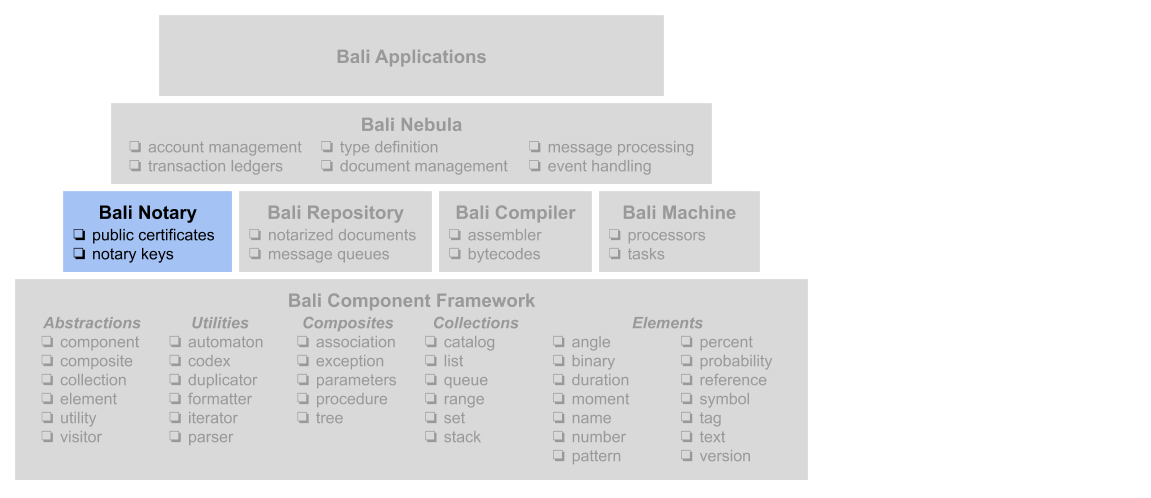
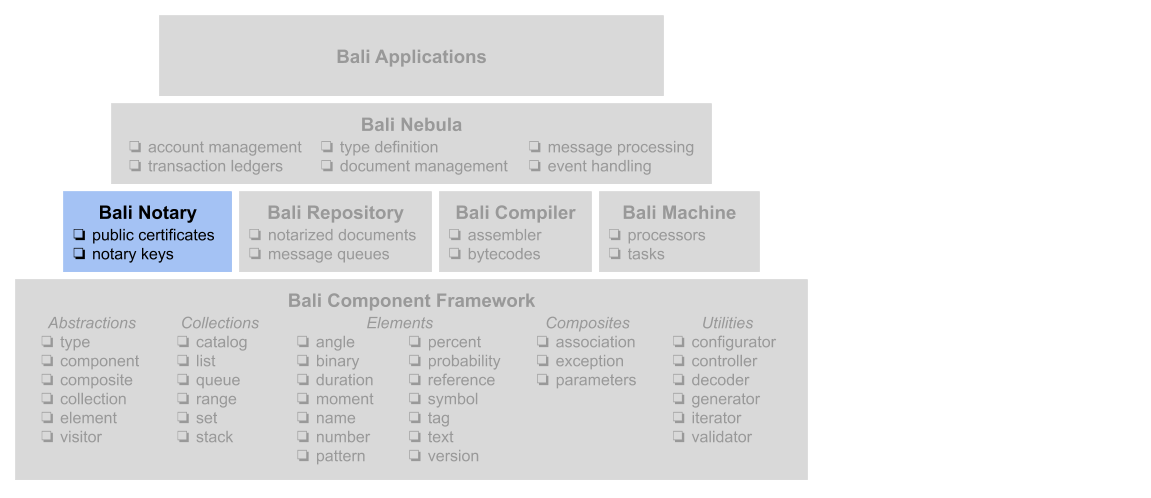
Renamed Codex -> Decoder, Machine -> Controller, and Savant -> Calculator.

Changed region(s): [[0.152, 0.6325, 0.4561, 0.9337], [0.4561, 0.6325, 0.669, 0.9337], [0.0304, 0.6325, 0.1216, 0.8434]]

diff --git a/src/DigitalNotary.js b/src/DigitalNotary.js
@@ -96,7 +96,7 @@ const DigitalNotary = function(securityModule, account, directory, debug) {
     // define the private configuration
     const filename = account.getValue() + '.bali';
     const configurator = bali.configurator(filename, directory, debug);
-    var configuration, machine;
+    var configuration, controller;
 
     /**
      * This method returns a string describing the attributes of the digital notary. It must
@@ -157,9 +157,9 @@ const DigitalNotary = function(securityModule, account, directory, debug) {
             // check current state
             if (!configuration) {
                 configuration = await loadConfiguration(configurator, debug);
-                machine = bali.machine(EVENTS, STATES, configuration.getValue('$state').toString(), debug);
+                controller = bali.controller(EVENTS, STATES, configuration.getValue('$state').toString(), debug);
             }
-            machine.validateEvent('$generateKey');
+            controller.validateEvent('$generateKey');
 
             // generate a new public-private key pair
             const publicKey = await securityModule.generateKeys();
@@ -180,7 +180,7 @@ const DigitalNotary = function(securityModule, account, directory, debug) {
             configuration.setValue('$certificate', certificate);
 
             // update current state
-            const state = machine.transitionState('$generateKey');
+            const state = controller.transitionState('$generateKey');
             configuration.setValue('$state', state);
             await storeConfiguration(configurator, configuration, debug);
 
@@ -220,9 +220,9 @@ const DigitalNotary = function(securityModule, account, directory, debug) {
             // check current state
             if (!configuration) {
                 configuration = await loadConfiguration(configurator, debug);
-                machine = bali.machine(EVENTS, STATES, configuration.getValue('$state').toString(), debug);
+                controller = bali.controller(EVENTS, STATES, configuration.getValue('$state').toString(), debug);
             }
-            machine.validateEvent('$activateKey');
+            controller.validateEvent('$activateKey');
 
             // extract the required attributes
             const timestamp = bali.moment();  // now
@@ -248,7 +248,7 @@ const DigitalNotary = function(securityModule, account, directory, debug) {
             configuration.setValue('$citation', citation);
 
             // update current state
-            const state = machine.transitionState('$activateKey');
+            const state = controller.transitionState('$activateKey');
             configuration.setValue('$state', state);
             await storeConfiguration(configurator, configuration, debug);
 
@@ -278,9 +278,9 @@ const DigitalNotary = function(securityModule, account, directory, debug) {
             // check current state
             if (!configuration) {
                 configuration = await loadConfiguration(configurator, debug);
-                machine = bali.machine(EVENTS, STATES, configuration.getValue('$state').toString(), debug);
+                controller = bali.controller(EVENTS, STATES, configuration.getValue('$state').toString(), debug);
             }
-            machine.validateEvent('$refreshKey');
+            controller.validateEvent('$refreshKey');
 
             // generate a new public-private key pair
             const publicKey = await securityModule.rotateKeys();
@@ -336,7 +336,7 @@ const DigitalNotary = function(securityModule, account, directory, debug) {
             configuration.setValue('$citation', citation);
 
             // update current state
-            const state = machine.transitionState('$refreshKey');
+            const state = controller.transitionState('$refreshKey');
             configuration.setValue('$state', state);
             await storeConfiguration(configurator, configuration, debug);
 
@@ -388,9 +388,9 @@ const DigitalNotary = function(securityModule, account, directory, debug) {
             // check current state
             if (!configuration) {
                 configuration = await loadConfiguration(configurator, debug);
-                machine = bali.machine(EVENTS, STATES, configuration.getValue('$state').toString(), debug);
+                controller = bali.controller(EVENTS, STATES, configuration.getValue('$state').toString(), debug);
             }
-            const state = machine.transitionState('$getCitation');  // NOTE: straight to transition...
+            const state = controller.transitionState('$getCitation');  // NOTE: straight to transition...
             configuration.setValue('$state', state);
             await storeConfiguration(configurator, configuration, debug);
             return configuration.getValue('$citation');
@@ -437,9 +437,9 @@ const DigitalNotary = function(securityModule, account, directory, debug) {
             // check current state
             if (!configuration) {
                 configuration = await loadConfiguration(configurator, debug);
-                machine = bali.machine(EVENTS, STATES, configuration.getValue('$state').toString(), debug);
+                controller = bali.controller(EVENTS, STATES, configuration.getValue('$state').toString(), debug);
             }
-            machine.validateEvent('$notarizeDocument');
+            controller.validateEvent('$notarizeDocument');
 
             // create the document
             const citation = configuration.getValue('$citation');
@@ -458,7 +458,7 @@ const DigitalNotary = function(securityModule, account, directory, debug) {
             notarizedComponent.setValue('$signature', signature);
 
             // update current state
-            const state = machine.transitionState('$notarizeDocument');
+            const state = controller.transitionState('$notarizeDocument');
             configuration.setValue('$state', state);
             await storeConfiguration(configurator, configuration, debug);
 

diff --git a/src/v1/SSM.js b/src/v1/SSM.js
@@ -86,7 +86,7 @@ const SSM = function(directory, debug) {
     // setup the configuration
     const filename = 'SSM' + PROTOCOL + '.bali';
     const configurator = bali.configurator(filename, directory, debug);
-    var configuration, machine;
+    var configuration, controller;
 
     /**
      * This method returns a string describing the attributes of the SSM. It must not be an
@@ -114,7 +114,7 @@ const SSM = function(directory, debug) {
             // load the current configuration if necessary
             if (!configuration) {
                 configuration = await loadConfiguration(configurator, debug);
-                machine = bali.machine(EVENTS, STATES, configuration.getValue('$state').toString(), debug);
+                controller = bali.controller(EVENTS, STATES, configuration.getValue('$state').toString(), debug);
             }
 
             return configuration.getValue('$tag');
@@ -163,9 +163,9 @@ const SSM = function(directory, debug) {
             // check the current state
             if (!configuration) {
                 configuration = await loadConfiguration(configurator, debug);
-                machine = bali.machine(EVENTS, STATES, configuration.getValue('$state').toString(), debug);
+                controller = bali.controller(EVENTS, STATES, configuration.getValue('$state').toString(), debug);
             }
-            machine.validateEvent('$generateKeys');
+            controller.validateEvent('$generateKeys');
 
             // generate a new key pair
             const seed = signer.createSeed();
@@ -174,7 +174,7 @@ const SSM = function(directory, debug) {
             configuration.setValue('$privateKey', bali.binary(raw.secretKey));
 
             // update the configuration
-            const state = machine.transitionState('$generateKeys');
+            const state = controller.transitionState('$generateKeys');
             configuration.setValue('$state', state);
             await storeConfiguration(configurator, configuration, debug);
 
@@ -201,9 +201,9 @@ const SSM = function(directory, debug) {
             // check the current state
             if (!configuration) {
                 configuration = await loadConfiguration(configurator, debug);
-                machine = bali.machine(EVENTS, STATES, configuration.getValue('$state').toString(), debug);
+                controller = bali.controller(EVENTS, STATES, configuration.getValue('$state').toString(), debug);
             }
-            machine.validateEvent('$rotateKeys');
+            controller.validateEvent('$rotateKeys');
 
             // save the previous key pair
             configuration.setValue('$previousPublicKey', configuration.getValue('$publicKey'));
@@ -216,7 +216,7 @@ const SSM = function(directory, debug) {
             configuration.setValue('$privateKey', bali.binary(raw.secretKey));
 
             // update the configuration
-            const state = machine.transitionState('$rotateKeys');
+            const state = controller.transitionState('$rotateKeys');
             configuration.setValue('$state', state);
             await storeConfiguration(configurator, configuration, debug);
 
@@ -316,9 +316,9 @@ const SSM = function(directory, debug) {
             // check the current state
             if (!configuration) {
                 configuration = await loadConfiguration(configurator, debug);
-                machine = bali.machine(EVENTS, STATES, configuration.getValue('$state').toString(), debug);
+                controller = bali.controller(EVENTS, STATES, configuration.getValue('$state').toString(), debug);
             }
-            machine.validateEvent('$signBytes');
+            controller.validateEvent('$signBytes');
 
             // retrieve the keys
             var privateKey;
@@ -337,7 +337,7 @@ const SSM = function(directory, debug) {
             const signature = signer.sign(bytes, publicKey.getValue(), privateKey.getValue());
 
             // update the configuration
-            const state = machine.transitionState('$signBytes');
+            const state = controller.transitionState('$signBytes');
             configuration.setValue('$state', state);
             await storeConfiguration(configurator, configuration, debug);
 
